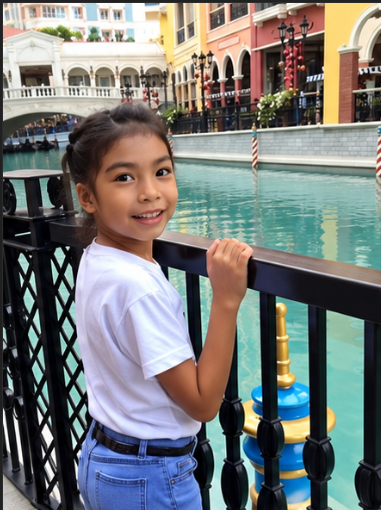
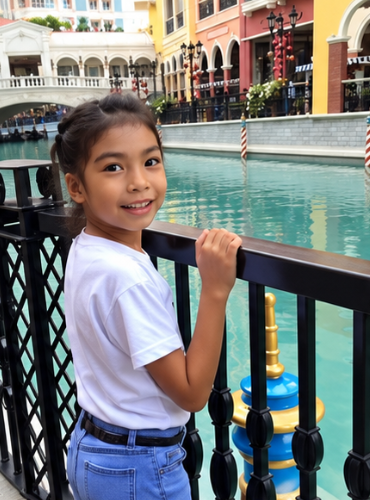
Fixing the photo switching and animation

diff --git a/style.css b/style.css
@@ -449,17 +449,27 @@
         .page2-slideshow-viewport:active { cursor: grabbing; }
 
         .page2-slideshow-track {
-            display: flex;
-            transition: transform .55s cubic-bezier(.22,.7,.25,1);
-            will-change: transform;
+            display: grid;
+            will-change: opacity;
         }
 
         .page2-slideshow-slide {
-            flex: 0 0 100%;
+            grid-area: 1 / 1;
             width: 100%;
             aspect-ratio: 3 / 4;
             margin: 0;
+            opacity: 0;
+            transform: translateY(10px);
+            pointer-events: none;
+            transition: opacity .45s ease, transform .45s cubic-bezier(.22,.7,.25,1);
             background: linear-gradient(135deg, #fff7f7, #f1e4ef);
+        }
+
+        .page2-slideshow-slide[aria-hidden="false"] {
+            z-index: 1;
+            opacity: 1;
+            transform: translateY(0);
+            pointer-events: auto;
         }
 
         .page2-slideshow-slide img {
@@ -567,7 +577,7 @@
         }
 
         @media (prefers-reduced-motion: reduce) {
-            .page2-slideshow-track { transition: none; }
+            .page2-slideshow-slide { transition: none; }
             .page2-slideshow-dot::before { transition: none; }
         }
 

diff --git a/script.js b/script.js
@@ -327,7 +327,6 @@ import { initializeApp } from "https://www.gstatic.com/firebasejs/11.6.1/firebas
 
             function showPhotoSlide(index, announce = false) {
                 photoSlideIndex = (index + slides.length) % slides.length;
-                track.style.transform = `translateX(-${photoSlideIndex * 100}%)`;
                 Array.from(track.children).forEach((slide, slideIndex) => {
                     slide.setAttribute('aria-hidden', slideIndex === photoSlideIndex ? 'false' : 'true');
                 });
@@ -353,7 +352,7 @@ import { initializeApp } from "https://www.gstatic.com/firebasejs/11.6.1/firebas
                 if (slides.length > 1 && photoSlideshowActive
                     && document.visibilityState !== 'hidden'
                     && !window.matchMedia('(prefers-reduced-motion: reduce)').matches) {
-                    photoSlideTimer = setInterval(() => showPhotoSlide(photoSlideIndex + 1), 5000);
+                    photoSlideTimer = setInterval(() => showPhotoSlide(photoSlideIndex + 1), 3000);
                 }
             }
 
